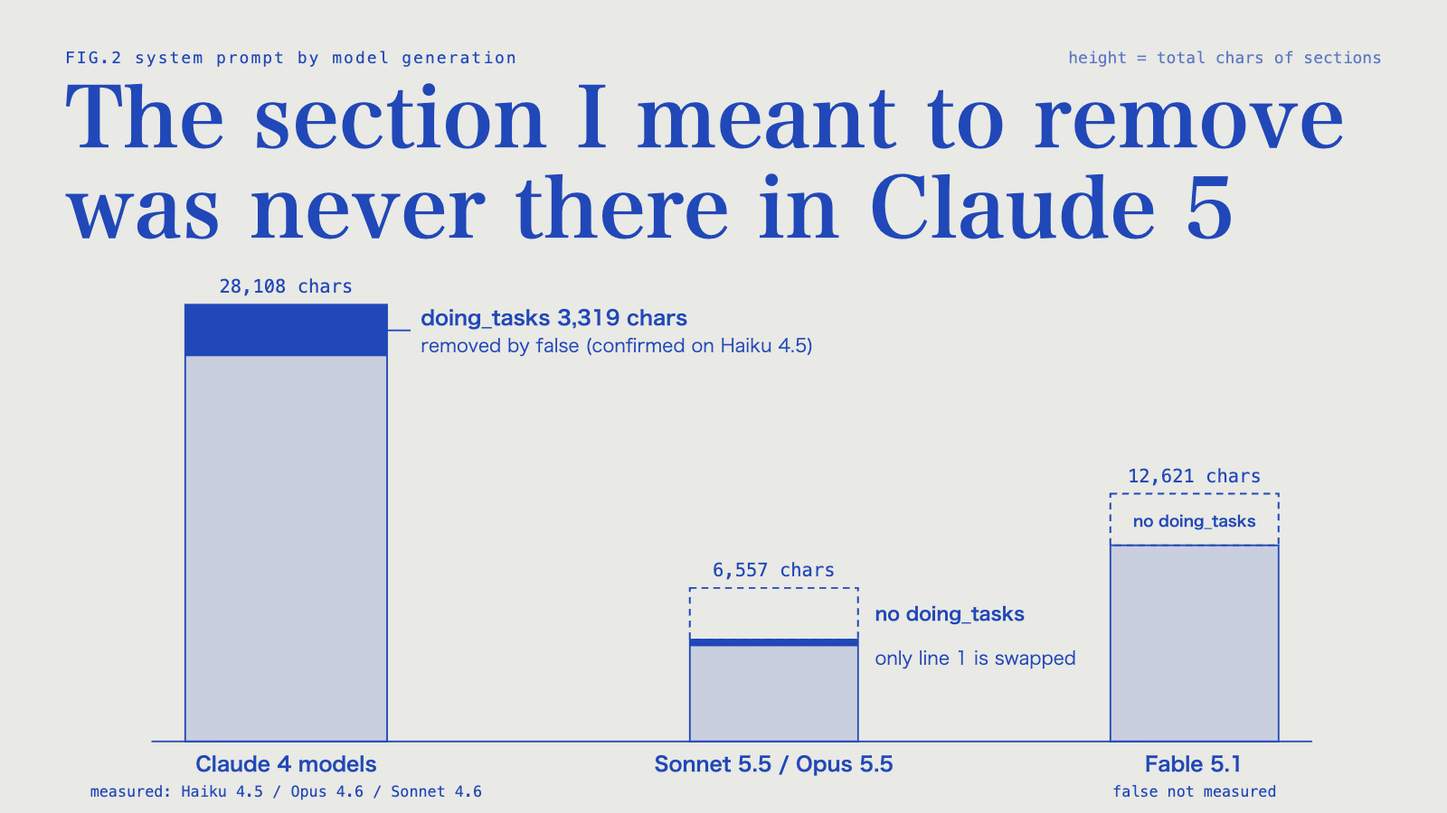
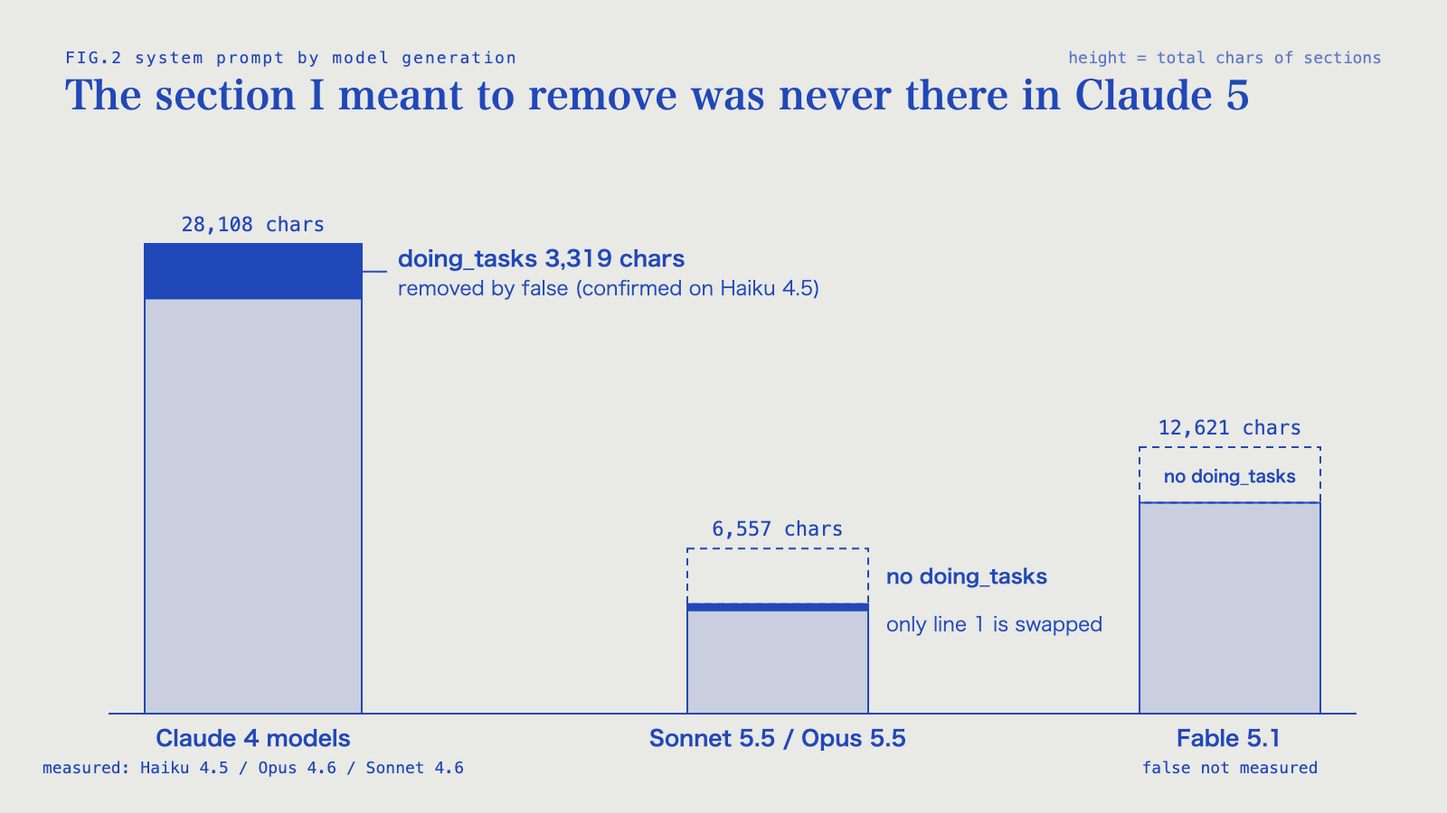
fix(images): harness-scope 記事の図の見出しを 1 行の大きさに戻す（JP / EN）
Context: 著者が公開後に見直し、図では mono-color の 5〜12 倍の規則を使わないと決めた（zenn-format の文字の大きさの規約 ee42589）。
Decision: JP は 0be7292 の 48px・1 行の版に戻す。EN は 44px・1 行に作り直す。図の文字と数字は変えない。

指摘: 「やっぱ改めて見直したけど、字の大きさは図は適用しない方がいいな。図用に大きさの規約足しといて」
Trigger: 公開後に記事を見直した
Expect: 次の図で、見出しが小さく mono-color らしさが弱いと感じる

diff --git a/figures/harness-scope-writing-harness-generations-en.html b/figures/harness-scope-writing-harness-generations-en.html
@@ -1,4 +1,4 @@
 <!doctype html>
 <html lang="en"><head><meta charset="utf-8"><title>fig2</title>
 <style>html,body{margin:0;width:1600px;height:900px;background:#E9E9E5;overflow:hidden}svg{display:block;font-family:"Hiragino Sans","Hiragino Kaku Gothic ProN",system-ui,sans-serif}</style></head><body>
-<svg viewBox="0 0 1600 900" width="1600" height="900" role="img" aria-label="Total characters of the system prompt sections: 28,108 on Claude 4 models (Haiku 4.5 / Opus 4.6 / Sonnet 4.6), 6,557 on Sonnet 5.5 / Opus 5.5, and 12,621 on Fable 5.1. doing_tasks (3,319 characters) exists in the Claude 4 models (removal by false confirmed on Haiku 4.5) and was never in Claude 5. On Sonnet 5.5 / Opus 5.5, selecting an output style changes only the first line of the main prompt. false was not measured on Fable 5.1."><text x="72" y="70" font-size="18" fill="#2148B8" font-family="Menlo, monospace" letter-spacing="2">FIG.2  system prompt by model generation</text><text x="72" y="165" font-size="92" font-weight="600" fill="#2148B8" font-family="Hiragino Mincho ProN, serif">The section I meant to remove</text><text x="72" y="265" font-size="92" font-weight="600" fill="#2148B8" font-family="Hiragino Mincho ProN, serif">was never there in Claude 5</text><text x="1528" y="70" font-size="18" fill="#2148B8" font-family="Menlo, monospace" text-anchor="end" opacity=".7">height = total chars of sections</text><g transform="translate(56.0,86.1) scale(0.93)"><line x1="120" y1="790" x2="1500" y2="790" stroke="#2148B8" stroke-width="2"/><rect x="160" y="270.0" width="240" height="520.0" fill="#2148B8" fill-opacity=".16" stroke="#2148B8" stroke-width="2"/><rect x="160" y="270.0" width="240" height="61.4" fill="#2148B8"/><text x="280.0" y="256.0" font-size="22" fill="#2148B8" text-anchor="middle" font-family="Menlo, monospace">28,108 chars</text><line x1="400" y1="300.7" x2="428" y2="300.7" stroke="#2148B8" stroke-width="2"/><text x="440" y="294.7" font-size="24" font-weight="700" fill="#2148B8">doing_tasks 3,319 chars</text><text x="440" y="326.7" font-size="22" fill="#2148B8">removed by false (confirmed on Haiku 4.5)</text><text x="280.0" y="826" font-size="24" font-weight="700" fill="#2148B8" text-anchor="middle">Claude 4 models</text><text x="280.0" y="856" font-size="18" fill="#2148B8" text-anchor="middle" font-family="Menlo, monospace">measured: Haiku 4.5 / Opus 4.6 / Sonnet 4.6</text><rect x="760" y="607.3000000000001" width="200" height="61.4" fill="none" stroke="#2148B8" stroke-width="2" stroke-dasharray="8 6"/><rect x="760" y="668.7" width="200" height="121.3" fill="#2148B8" fill-opacity=".16" stroke="#2148B8" stroke-width="2"/><rect x="760" y="668.7" width="200" height="8" fill="#2148B8"/><text x="860.0" y="593.3000000000001" font-size="22" fill="#2148B8" text-anchor="middle" font-family="Menlo, monospace">6,557 chars</text><text x="980" y="646.0" font-size="22" font-weight="700" fill="#2148B8">no doing_tasks</text><text x="980" y="698.7" font-size="22" fill="#2148B8">only line 1 is swapped</text><text x="860.0" y="826" font-size="24" font-weight="700" fill="#2148B8" text-anchor="middle">Sonnet 5.5 / Opus 5.5</text><rect x="1260" y="495.1" width="200" height="61.4" fill="none" stroke="#2148B8" stroke-width="2" stroke-dasharray="8 6"/><text x="1360.0" y="533.8" font-size="18" font-weight="700" fill="#2148B8" text-anchor="middle">no doing_tasks</text><rect x="1260" y="556.5" width="200" height="233.5" fill="#2148B8" fill-opacity=".16" stroke="#2148B8" stroke-width="2"/><text x="1360.0" y="481.1" font-size="22" fill="#2148B8" text-anchor="middle" font-family="Menlo, monospace">12,621 chars</text><text x="1360.0" y="826" font-size="24" font-weight="700" fill="#2148B8" text-anchor="middle">Fable 5.1</text><text x="1360" y="856" font-size="18" fill="#2148B8" text-anchor="middle" font-family="Menlo, monospace">false not measured</text></g></svg></body></html>
+<svg viewBox="0 0 1600 900" width="1600" height="900" role="img" aria-label="Total characters of the system prompt sections: 28,108 on Claude 4 models (Haiku 4.5 / Opus 4.6 / Sonnet 4.6), 6,557 on Sonnet 5.5 / Opus 5.5, and 12,621 on Fable 5.1. doing_tasks (3,319 characters) exists in the Claude 4 models (removal by false confirmed on Haiku 4.5) and was never in Claude 5. On Sonnet 5.5 / Opus 5.5, selecting an output style changes only the first line of the main prompt. false was not measured on Fable 5.1."><text x="72" y="70" font-size="18" fill="#2148B8" font-family="Menlo, monospace" letter-spacing="2">FIG.2  system prompt by model generation</text><text x="72" y="122" font-size="44" font-weight="600" fill="#2148B8" font-family="Hiragino Mincho ProN, serif">The section I meant to remove was never there in Claude 5</text><text x="1528" y="70" font-size="18" fill="#2148B8" font-family="Menlo, monospace" text-anchor="end" opacity=".7">height = total chars of sections</text><line x1="120" y1="790" x2="1500" y2="790" stroke="#2148B8" stroke-width="2"/><rect x="160" y="270.0" width="240" height="520.0" fill="#2148B8" fill-opacity=".16" stroke="#2148B8" stroke-width="2"/><rect x="160" y="270.0" width="240" height="61.4" fill="#2148B8"/><text x="280.0" y="256.0" font-size="22" fill="#2148B8" text-anchor="middle" font-family="Menlo, monospace">28,108 chars</text><line x1="400" y1="300.7" x2="428" y2="300.7" stroke="#2148B8" stroke-width="2"/><text x="440" y="294.7" font-size="24" font-weight="700" fill="#2148B8">doing_tasks 3,319 chars</text><text x="440" y="326.7" font-size="22" fill="#2148B8">removed by false (confirmed on Haiku 4.5)</text><text x="280.0" y="826" font-size="24" font-weight="700" fill="#2148B8" text-anchor="middle">Claude 4 models</text><text x="280.0" y="856" font-size="18" fill="#2148B8" text-anchor="middle" font-family="Menlo, monospace">measured: Haiku 4.5 / Opus 4.6 / Sonnet 4.6</text><rect x="760" y="607.3000000000001" width="200" height="61.4" fill="none" stroke="#2148B8" stroke-width="2" stroke-dasharray="8 6"/><rect x="760" y="668.7" width="200" height="121.3" fill="#2148B8" fill-opacity=".16" stroke="#2148B8" stroke-width="2"/><rect x="760" y="668.7" width="200" height="8" fill="#2148B8"/><text x="860.0" y="593.3000000000001" font-size="22" fill="#2148B8" text-anchor="middle" font-family="Menlo, monospace">6,557 chars</text><text x="980" y="646.0" font-size="22" font-weight="700" fill="#2148B8">no doing_tasks</text><text x="980" y="698.7" font-size="22" fill="#2148B8">only line 1 is swapped</text><text x="860.0" y="826" font-size="24" font-weight="700" fill="#2148B8" text-anchor="middle">Sonnet 5.5 / Opus 5.5</text><rect x="1260" y="495.1" width="200" height="61.4" fill="none" stroke="#2148B8" stroke-width="2" stroke-dasharray="8 6"/><text x="1360.0" y="533.8" font-size="18" font-weight="700" fill="#2148B8" text-anchor="middle">no doing_tasks</text><rect x="1260" y="556.5" width="200" height="233.5" fill="#2148B8" fill-opacity=".16" stroke="#2148B8" stroke-width="2"/><text x="1360.0" y="481.1" font-size="22" fill="#2148B8" text-anchor="middle" font-family="Menlo, monospace">12,621 chars</text><text x="1360.0" y="826" font-size="24" font-weight="700" fill="#2148B8" text-anchor="middle">Fable 5.1</text><text x="1360" y="856" font-size="18" fill="#2148B8" text-anchor="middle" font-family="Menlo, monospace">false not measured</text></svg></body></html>

diff --git a/figures/harness-scope-writing-harness-generations.html b/figures/harness-scope-writing-harness-generations.html
@@ -1,4 +1,4 @@
 <!doctype html>
 <html lang="ja"><head><meta charset="utf-8"><title>fig2</title>
 <style>html,body{margin:0;width:1600px;height:900px;background:#E9E9E5;overflow:hidden}svg{display:block;font-family:"Hiragino Sans","Hiragino Kaku Gothic ProN",system-ui,sans-serif}</style></head><body>
-<svg viewBox="0 0 1600 900" width="1600" height="900" role="img" aria-label="system prompt の節の合計は Claude 4 系（Haiku 4.5 / Opus 4.6 / Sonnet 4.6）で 28,108字、Sonnet 5.5 / Opus 5.5 は 6,557字、Fable 5.1 は 12,621字。doing_tasks 3,319字は 4 系にあり（false で外れることは Haiku 4.5 で確認）、5 系には最初から無い。Sonnet 5.5 / Opus 5.5 で出力スタイルを選んで変わるのは本体の1行目だけ。Fable 5.1 の false は未計測。"><text x="72" y="70" font-size="18" fill="#2148B8" font-family="Menlo, monospace" letter-spacing="2">FIG.2  system prompt by model generation</text><text x="72" y="165" font-size="92" font-weight="600" fill="#2148B8" font-family="Hiragino Mincho ProN, serif">外すつもりの節は、</text><text x="72" y="265" font-size="92" font-weight="600" fill="#2148B8" font-family="Hiragino Mincho ProN, serif">Claude 5 系には最初から無い</text><text x="1528" y="70" font-size="18" fill="#2148B8" font-family="Menlo, monospace" text-anchor="end" opacity=".7">高さ = 節の合計字数</text><g transform="translate(56.0,86.1) scale(0.93)"><line x1="120" y1="790" x2="1500" y2="790" stroke="#2148B8" stroke-width="2"/><rect x="160" y="270.0" width="240" height="520.0" fill="#2148B8" fill-opacity=".16" stroke="#2148B8" stroke-width="2"/><rect x="160" y="270.0" width="240" height="61.4" fill="#2148B8"/><text x="280.0" y="256.0" font-size="22" fill="#2148B8" text-anchor="middle" font-family="Menlo, monospace">28,108字</text><line x1="400" y1="300.7" x2="428" y2="300.7" stroke="#2148B8" stroke-width="2"/><text x="440" y="294.7" font-size="24" font-weight="700" fill="#2148B8">doing_tasks 3,319字</text><text x="440" y="326.7" font-size="22" fill="#2148B8">false で外れる（Haiku 4.5 で確認）</text><text x="280.0" y="826" font-size="24" font-weight="700" fill="#2148B8" text-anchor="middle">Claude 4 系</text><text x="280.0" y="856" font-size="18" fill="#2148B8" text-anchor="middle" font-family="Menlo, monospace">Haiku 4.5 / Opus 4.6 / Sonnet 4.6 で計測</text><rect x="760" y="607.3000000000001" width="200" height="61.4" fill="none" stroke="#2148B8" stroke-width="2" stroke-dasharray="8 6"/><rect x="760" y="668.7" width="200" height="121.3" fill="#2148B8" fill-opacity=".16" stroke="#2148B8" stroke-width="2"/><rect x="760" y="668.7" width="200" height="8" fill="#2148B8"/><text x="860.0" y="593.3000000000001" font-size="22" fill="#2148B8" text-anchor="middle" font-family="Menlo, monospace">6,557字</text><text x="980" y="646.0" font-size="22" font-weight="700" fill="#2148B8">doing_tasks なし</text><text x="980" y="698.7" font-size="22" fill="#2148B8">1行目だけ差し替わる</text><text x="860.0" y="826" font-size="24" font-weight="700" fill="#2148B8" text-anchor="middle">Sonnet 5.5 / Opus 5.5</text><rect x="1260" y="495.1" width="200" height="61.4" fill="none" stroke="#2148B8" stroke-width="2" stroke-dasharray="8 6"/><text x="1360.0" y="533.8" font-size="18" font-weight="700" fill="#2148B8" text-anchor="middle">doing_tasks なし</text><rect x="1260" y="556.5" width="200" height="233.5" fill="#2148B8" fill-opacity=".16" stroke="#2148B8" stroke-width="2"/><text x="1360.0" y="481.1" font-size="22" fill="#2148B8" text-anchor="middle" font-family="Menlo, monospace">12,621字</text><text x="1360.0" y="826" font-size="24" font-weight="700" fill="#2148B8" text-anchor="middle">Fable 5.1</text><text x="1360" y="856" font-size="18" fill="#2148B8" text-anchor="middle" font-family="Menlo, monospace">false は未計測</text></g></svg></body></html>
+<svg viewBox="0 0 1600 900" width="1600" height="900" role="img" aria-label="system prompt の節の合計は Claude 4 系（Haiku 4.5 / Opus 4.6 / Sonnet 4.6）で 28,108字、Sonnet 5.5 / Opus 5.5 は 6,557字、Fable 5.1 は 12,621字。doing_tasks 3,319字は 4 系にあり（false で外れることは Haiku 4.5 で確認）、5 系には最初から無い。Sonnet 5.5 / Opus 5.5 で出力スタイルを選んで変わるのは本体の1行目だけ。Fable 5.1 の false は未計測。"><text x="72" y="70" font-size="18" fill="#2148B8" font-family="Menlo, monospace" letter-spacing="2">FIG.2  system prompt by model generation</text><text x="72" y="122" font-size="48" font-weight="600" fill="#2148B8" font-family="Hiragino Mincho ProN, serif">外すつもりの節は、Claude 5 系には最初から無い</text><text x="1528" y="70" font-size="18" fill="#2148B8" font-family="Menlo, monospace" text-anchor="end" opacity=".7">高さ = 節の合計字数</text><line x1="120" y1="790" x2="1500" y2="790" stroke="#2148B8" stroke-width="2"/><rect x="160" y="270.0" width="240" height="520.0" fill="#2148B8" fill-opacity=".16" stroke="#2148B8" stroke-width="2"/><rect x="160" y="270.0" width="240" height="61.4" fill="#2148B8"/><text x="280.0" y="256.0" font-size="22" fill="#2148B8" text-anchor="middle" font-family="Menlo, monospace">28,108字</text><line x1="400" y1="300.7" x2="428" y2="300.7" stroke="#2148B8" stroke-width="2"/><text x="440" y="294.7" font-size="24" font-weight="700" fill="#2148B8">doing_tasks 3,319字</text><text x="440" y="326.7" font-size="22" fill="#2148B8">false で外れる（Haiku 4.5 で確認）</text><text x="280.0" y="826" font-size="24" font-weight="700" fill="#2148B8" text-anchor="middle">Claude 4 系</text><text x="280.0" y="856" font-size="18" fill="#2148B8" text-anchor="middle" font-family="Menlo, monospace">Haiku 4.5 / Opus 4.6 / Sonnet 4.6 で計測</text><rect x="760" y="607.3000000000001" width="200" height="61.4" fill="none" stroke="#2148B8" stroke-width="2" stroke-dasharray="8 6"/><rect x="760" y="668.7" width="200" height="121.3" fill="#2148B8" fill-opacity=".16" stroke="#2148B8" stroke-width="2"/><rect x="760" y="668.7" width="200" height="8" fill="#2148B8"/><text x="860.0" y="593.3000000000001" font-size="22" fill="#2148B8" text-anchor="middle" font-family="Menlo, monospace">6,557字</text><text x="980" y="646.0" font-size="22" font-weight="700" fill="#2148B8">doing_tasks なし</text><text x="980" y="698.7" font-size="22" fill="#2148B8">1行目だけ差し替わる</text><text x="860.0" y="826" font-size="24" font-weight="700" fill="#2148B8" text-anchor="middle">Sonnet 5.5 / Opus 5.5</text><rect x="1260" y="495.1" width="200" height="61.4" fill="none" stroke="#2148B8" stroke-width="2" stroke-dasharray="8 6"/><text x="1360.0" y="533.8" font-size="18" font-weight="700" fill="#2148B8" text-anchor="middle">doing_tasks なし</text><rect x="1260" y="556.5" width="200" height="233.5" fill="#2148B8" fill-opacity=".16" stroke="#2148B8" stroke-width="2"/><text x="1360.0" y="481.1" font-size="22" fill="#2148B8" text-anchor="middle" font-family="Menlo, monospace">12,621字</text><text x="1360.0" y="826" font-size="24" font-weight="700" fill="#2148B8" text-anchor="middle">Fable 5.1</text><text x="1360" y="856" font-size="18" fill="#2148B8" text-anchor="middle" font-family="Menlo, monospace">false は未計測</text></svg></body></html>

diff --git a/figures/harness-scope-writing-harness-turns.html b/figures/harness-scope-writing-harness-turns.html
@@ -1,4 +1,4 @@
 <!doctype html>
 <html lang="ja"><head><meta charset="utf-8"><title>fig3</title>
 <style>html,body{margin:0;width:1600px;height:900px;background:#E9E9E5;overflow:hidden}svg{display:block;font-family:"Hiragino Sans","Hiragino Kaku Gothic ProN",system-ui,sans-serif}</style></head><body>
-<svg viewBox="0 0 1600 900" width="1600" height="900" role="img" aria-label="出力スタイルの本文（会話の規約 7項目）が新しく差し込まれるのは1ターン目だけ。2ターン目に新しく差し込まれるのは名前の念押し95字だけ。"><text x="72" y="70" font-size="18" fill="#2148B8" font-family="Menlo, monospace" letter-spacing="2">FIG.3  reminders inserted per turn</text><text x="72" y="165" font-size="92" font-weight="600" fill="#2148B8" font-family="Hiragino Mincho ProN, serif">規約の本文が差し込まれるのは、</text><text x="72" y="265" font-size="92" font-weight="600" fill="#2148B8" font-family="Hiragino Mincho ProN, serif">最初のターンだけ</text><text x="1528" y="70" font-size="18" fill="#2148B8" font-family="Menlo, monospace" text-anchor="end" opacity=".7">高さ = 字数</text><g transform="translate(0.0,105.0) scale(1.0)"><line x1="160" y1="250" x2="1460" y2="250" stroke="#2148B8" stroke-width="3"/><path d="M1460,240 L1480,250 L1460,260 z" fill="#2148B8"/><circle cx="480" cy="250" r="14" fill="#2148B8"/><text x="480" y="220" font-size="28" font-weight="700" fill="#2148B8" text-anchor="middle">1ターン目</text><line x1="480" y1="264" x2="480" y2="296" stroke="#2148B8" stroke-width="2"/><circle cx="1120" cy="250" r="14" fill="#2148B8"/><text x="1120" y="220" font-size="28" font-weight="700" fill="#2148B8" text-anchor="middle">2ターン目</text><line x1="1120" y1="264" x2="1120" y2="296" stroke="#2148B8" stroke-width="2"/><rect x="300" y="300" width="360" height="333" fill="#ADB9D7"/><text x="328" y="348" font-size="28" font-weight="700" fill="#2148B8">出力スタイルの本文</text><text x="328" y="386" font-size="22" fill="#2148B8">会話の規約 7項目</text><rect x="300" y="645" width="360" height="57" fill="#2148B8"/><text x="328" y="681.5" font-size="22" font-weight="700" fill="#E9E9E5">名前の念押し 95字</text><rect x="940" y="300" width="360" height="333" fill="none" stroke="#2148B8" stroke-width="2" stroke-dasharray="8 6"/><text x="1120.0" y="474.5" font-size="24" font-weight="700" fill="#2148B8" text-anchor="middle">本文は差し込まれない</text><rect x="940" y="645" width="360" height="57" fill="#2148B8"/><text x="968" y="681.5" font-size="22" font-weight="700" fill="#E9E9E5">名前の念押し 95字</text><text x="72" y="772" font-size="18" fill="#2148B8" font-family="Menlo, monospace" opacity=".8">新しく差し込まれるリマインダー / probe, Claude Code 2.1.288</text></g></svg></body></html>
+<svg viewBox="0 0 1600 900" width="1600" height="900" role="img" aria-label="出力スタイルの本文（会話の規約 7項目）が新しく差し込まれるのは1ターン目だけ。2ターン目に新しく差し込まれるのは名前の念押し95字だけ。"><text x="72" y="70" font-size="18" fill="#2148B8" font-family="Menlo, monospace" letter-spacing="2">FIG.3  reminders inserted per turn</text><text x="72" y="122" font-size="48" font-weight="600" fill="#2148B8" font-family="Hiragino Mincho ProN, serif">規約の本文が差し込まれるのは、最初のターンだけ</text><text x="1528" y="70" font-size="18" fill="#2148B8" font-family="Menlo, monospace" text-anchor="end" opacity=".7">高さ = 字数</text><line x1="160" y1="250" x2="1460" y2="250" stroke="#2148B8" stroke-width="3"/><path d="M1460,240 L1480,250 L1460,260 z" fill="#2148B8"/><circle cx="480" cy="250" r="14" fill="#2148B8"/><text x="480" y="220" font-size="28" font-weight="700" fill="#2148B8" text-anchor="middle">1ターン目</text><line x1="480" y1="264" x2="480" y2="296" stroke="#2148B8" stroke-width="2"/><circle cx="1120" cy="250" r="14" fill="#2148B8"/><text x="1120" y="220" font-size="28" font-weight="700" fill="#2148B8" text-anchor="middle">2ターン目</text><line x1="1120" y1="264" x2="1120" y2="296" stroke="#2148B8" stroke-width="2"/><rect x="300" y="300" width="360" height="333" fill="#ADB9D7"/><text x="328" y="348" font-size="28" font-weight="700" fill="#2148B8">出力スタイルの本文</text><text x="328" y="386" font-size="22" fill="#2148B8">会話の規約 7項目</text><rect x="300" y="645" width="360" height="57" fill="#2148B8"/><text x="328" y="681.5" font-size="22" font-weight="700" fill="#E9E9E5">名前の念押し 95字</text><rect x="940" y="300" width="360" height="333" fill="none" stroke="#2148B8" stroke-width="2" stroke-dasharray="8 6"/><text x="1120.0" y="474.5" font-size="24" font-weight="700" fill="#2148B8" text-anchor="middle">本文は差し込まれない</text><rect x="940" y="645" width="360" height="57" fill="#2148B8"/><text x="968" y="681.5" font-size="22" font-weight="700" fill="#E9E9E5">名前の念押し 95字</text><text x="72" y="772" font-size="18" fill="#2148B8" font-family="Menlo, monospace" opacity=".8">新しく差し込まれるリマインダー / probe, Claude Code 2.1.288</text></svg></body></html>

diff --git a/figures/harness-scope-writing-harness-turns-en.html b/figures/harness-scope-writing-harness-turns-en.html
@@ -1,4 +1,4 @@
 <!doctype html>
 <html lang="en"><head><meta charset="utf-8"><title>fig3</title>
 <style>html,body{margin:0;width:1600px;height:900px;background:#E9E9E5;overflow:hidden}svg{display:block;font-family:"Hiragino Sans","Hiragino Kaku Gothic ProN",system-ui,sans-serif}</style></head><body>
-<svg viewBox="0 0 1600 900" width="1600" height="900" role="img" aria-label="The output style body (7 conversation rules) is newly inserted only on turn 1. On turn 2, the only new insertion is a 95-character reminder of the style name."><text x="72" y="70" font-size="18" fill="#2148B8" font-family="Menlo, monospace" letter-spacing="2">FIG.3  reminders inserted per turn</text><text x="72" y="165" font-size="92" font-weight="600" fill="#2148B8" font-family="Hiragino Mincho ProN, serif">The rules are inserted in full</text><text x="72" y="265" font-size="92" font-weight="600" fill="#2148B8" font-family="Hiragino Mincho ProN, serif">only on the first turn</text><text x="1528" y="70" font-size="18" fill="#2148B8" font-family="Menlo, monospace" text-anchor="end" opacity=".7">height = characters</text><g transform="translate(0.0,105.0) scale(1.0)"><line x1="160" y1="250" x2="1460" y2="250" stroke="#2148B8" stroke-width="3"/><path d="M1460,240 L1480,250 L1460,260 z" fill="#2148B8"/><circle cx="480" cy="250" r="14" fill="#2148B8"/><text x="480" y="220" font-size="28" font-weight="700" fill="#2148B8" text-anchor="middle">Turn 1</text><line x1="480" y1="264" x2="480" y2="296" stroke="#2148B8" stroke-width="2"/><circle cx="1120" cy="250" r="14" fill="#2148B8"/><text x="1120" y="220" font-size="28" font-weight="700" fill="#2148B8" text-anchor="middle">Turn 2</text><line x1="1120" y1="264" x2="1120" y2="296" stroke="#2148B8" stroke-width="2"/><rect x="300" y="300" width="360" height="333" fill="#ADB9D7"/><text x="328" y="348" font-size="28" font-weight="700" fill="#2148B8">Output style body</text><text x="328" y="386" font-size="22" fill="#2148B8">7 conversation rules</text><rect x="300" y="645" width="360" height="57" fill="#2148B8"/><text x="328" y="681.5" font-size="22" font-weight="700" fill="#E9E9E5">Name reminder, 95 chars</text><rect x="940" y="300" width="360" height="333" fill="none" stroke="#2148B8" stroke-width="2" stroke-dasharray="8 6"/><text x="1120.0" y="474.5" font-size="24" font-weight="700" fill="#2148B8" text-anchor="middle">Body not inserted</text><rect x="940" y="645" width="360" height="57" fill="#2148B8"/><text x="968" y="681.5" font-size="22" font-weight="700" fill="#E9E9E5">Name reminder, 95 chars</text><text x="72" y="772" font-size="18" fill="#2148B8" font-family="Menlo, monospace" opacity=".8">Newly inserted reminders / probe, Claude Code 2.1.288</text></g></svg></body></html>
+<svg viewBox="0 0 1600 900" width="1600" height="900" role="img" aria-label="The output style body (7 conversation rules) is newly inserted only on turn 1. On turn 2, the only new insertion is a 95-character reminder of the style name."><text x="72" y="70" font-size="18" fill="#2148B8" font-family="Menlo, monospace" letter-spacing="2">FIG.3  reminders inserted per turn</text><text x="72" y="122" font-size="44" font-weight="600" fill="#2148B8" font-family="Hiragino Mincho ProN, serif">The rules are inserted in full only on the first turn</text><text x="1528" y="70" font-size="18" fill="#2148B8" font-family="Menlo, monospace" text-anchor="end" opacity=".7">height = characters</text><line x1="160" y1="250" x2="1460" y2="250" stroke="#2148B8" stroke-width="3"/><path d="M1460,240 L1480,250 L1460,260 z" fill="#2148B8"/><circle cx="480" cy="250" r="14" fill="#2148B8"/><text x="480" y="220" font-size="28" font-weight="700" fill="#2148B8" text-anchor="middle">Turn 1</text><line x1="480" y1="264" x2="480" y2="296" stroke="#2148B8" stroke-width="2"/><circle cx="1120" cy="250" r="14" fill="#2148B8"/><text x="1120" y="220" font-size="28" font-weight="700" fill="#2148B8" text-anchor="middle">Turn 2</text><line x1="1120" y1="264" x2="1120" y2="296" stroke="#2148B8" stroke-width="2"/><rect x="300" y="300" width="360" height="333" fill="#ADB9D7"/><text x="328" y="348" font-size="28" font-weight="700" fill="#2148B8">Output style body</text><text x="328" y="386" font-size="22" fill="#2148B8">7 conversation rules</text><rect x="300" y="645" width="360" height="57" fill="#2148B8"/><text x="328" y="681.5" font-size="22" font-weight="700" fill="#E9E9E5">Name reminder, 95 chars</text><rect x="940" y="300" width="360" height="333" fill="none" stroke="#2148B8" stroke-width="2" stroke-dasharray="8 6"/><text x="1120.0" y="474.5" font-size="24" font-weight="700" fill="#2148B8" text-anchor="middle">Body not inserted</text><rect x="940" y="645" width="360" height="57" fill="#2148B8"/><text x="968" y="681.5" font-size="22" font-weight="700" fill="#E9E9E5">Name reminder, 95 chars</text><text x="72" y="772" font-size="18" fill="#2148B8" font-family="Menlo, monospace" opacity=".8">Newly inserted reminders / probe, Claude Code 2.1.288</text></svg></body></html>

diff --git a/figures/harness-scope-writing-harness-hero.html b/figures/harness-scope-writing-harness-hero.html
@@ -12,7 +12,7 @@ svg{display:block;font-family:"Hiragino Sans","Hiragino Kaku Gothic ProN",system
   </defs>
 
   <!-- title -->
-  <text x="72" y="70" font-size="18" fill="#2148B8" font-family="Menlo, monospace" letter-spacing="2">FIG.1  harness-scope × output style</text><text x="72" y="165" font-size="92" font-weight="600" fill="#2148B8" font-family="Hiragino Mincho ProN, serif">見せるものと話し方を、</text><text x="72" y="265" font-size="92" font-weight="600" fill="#2148B8" font-family="Hiragino Mincho ProN, serif">別の場所で決める</text><g transform="translate(112.0,153.8) scale(0.86)">
+  <text x="72" y="70" font-size="18" fill="#2148B8" font-family="Menlo, monospace" letter-spacing="2">FIG.1  harness-scope × output style</text><text x="72" y="122" font-size="48" font-weight="600" fill="#2148B8" font-family="Hiragino Mincho ProN, serif">見せるものと話し方を、別の場所で決める</text>
 
   <!-- global harness -->
   <rect x="72" y="170" width="420" height="370" rx="4" fill="none" stroke="#2148B8" stroke-width="3"/>
@@ -91,5 +91,5 @@ svg{display:block;font-family:"Hiragino Sans","Hiragino Kaku Gothic ProN",system
   <rect x="1206" y="740" width="302" height="92" rx="2" fill="#E9E9E5"/>
   <text x="1226" y="770" font-size="20" font-weight="700" fill="#2148B8" letter-spacing="1">話し方</text>
   <text x="1226" y="804" font-size="24" fill="#2148B8">会話の規約</text>
-<path d="M1186,291 L1200,300 L1186,309 z" fill="#E9E9E5"/><path d="M1186,361 L1200,370 L1186,379 z" fill="#E9E9E5"/><path d="M1186,431 L1200,440 L1186,449 z" fill="#E9E9E5"/><path d="M1186,623 L1200,632 L1186,641 z" fill="#E9E9E5"/><path d="M1186,779 L1200,788 L1186,797 z" fill="#E9E9E5"/><text x="1226" y="524" font-size="22" fill="#E9E9E5" opacity=".62">外したものは届かない</text><text x="611" y="486" font-size="18" fill="#2148B8" text-anchor="middle" font-family="Menlo, monospace" opacity=".75">数はリポジトリ分を含む</text></g></svg>
+<path d="M1186,291 L1200,300 L1186,309 z" fill="#E9E9E5"/><path d="M1186,361 L1200,370 L1186,379 z" fill="#E9E9E5"/><path d="M1186,431 L1200,440 L1186,449 z" fill="#E9E9E5"/><path d="M1186,623 L1200,632 L1186,641 z" fill="#E9E9E5"/><path d="M1186,779 L1200,788 L1186,797 z" fill="#E9E9E5"/><text x="1226" y="524" font-size="22" fill="#E9E9E5" opacity=".62">外したものは届かない</text><text x="611" y="486" font-size="18" fill="#2148B8" text-anchor="middle" font-family="Menlo, monospace" opacity=".75">数はリポジトリ分を含む</text></svg>
 </body></html>

diff --git a/figures/harness-scope-writing-harness-hero-en.html b/figures/harness-scope-writing-harness-hero-en.html
@@ -12,7 +12,7 @@ svg{display:block;font-family:"Hiragino Sans","Hiragino Kaku Gothic ProN",system
   </defs>
 
   <!-- title -->
-  <text x="72" y="70" font-size="18" fill="#2148B8" font-family="Menlo, monospace" letter-spacing="2">FIG.1  harness-scope × output style</text><text x="72" y="165" font-size="92" font-weight="600" fill="#2148B8" font-family="Hiragino Mincho ProN, serif">What Claude sees, how it talks,</text><text x="72" y="265" font-size="92" font-weight="600" fill="#2148B8" font-family="Hiragino Mincho ProN, serif">decided in separate places</text><g transform="translate(112.0,153.8) scale(0.86)">
+  <text x="72" y="70" font-size="18" fill="#2148B8" font-family="Menlo, monospace" letter-spacing="2">FIG.1  harness-scope × output style</text><text x="72" y="122" font-size="44" font-weight="600" fill="#2148B8" font-family="Hiragino Mincho ProN, serif">What Claude sees, how it talks, decided in separate places</text>
 
   <!-- global harness -->
   <rect x="72" y="170" width="420" height="370" rx="4" fill="none" stroke="#2148B8" stroke-width="3"/>
@@ -91,5 +91,5 @@ svg{display:block;font-family:"Hiragino Sans","Hiragino Kaku Gothic ProN",system
   <rect x="1206" y="740" width="302" height="92" rx="2" fill="#E9E9E5"/>
   <text x="1226" y="770" font-size="20" font-weight="700" fill="#2148B8" letter-spacing="1">How it talks</text>
   <text x="1226" y="804" font-size="24" fill="#2148B8">Conversation rules</text>
-<path d="M1186,291 L1200,300 L1186,309 z" fill="#E9E9E5"/><path d="M1186,361 L1200,370 L1186,379 z" fill="#E9E9E5"/><path d="M1186,431 L1200,440 L1186,449 z" fill="#E9E9E5"/><path d="M1186,623 L1200,632 L1186,641 z" fill="#E9E9E5"/><path d="M1186,779 L1200,788 L1186,797 z" fill="#E9E9E5"/><text x="1226" y="524" font-size="22" fill="#E9E9E5" opacity=".62">Removed: never sent</text><text x="611" y="486" font-size="18" fill="#2148B8" text-anchor="middle" font-family="Menlo, monospace" opacity=".75">incl. repo's own</text></g></svg>
+<path d="M1186,291 L1200,300 L1186,309 z" fill="#E9E9E5"/><path d="M1186,361 L1200,370 L1186,379 z" fill="#E9E9E5"/><path d="M1186,431 L1200,440 L1186,449 z" fill="#E9E9E5"/><path d="M1186,623 L1200,632 L1186,641 z" fill="#E9E9E5"/><path d="M1186,779 L1200,788 L1186,797 z" fill="#E9E9E5"/><text x="1226" y="524" font-size="22" fill="#E9E9E5" opacity=".62">Removed: never sent</text><text x="611" y="486" font-size="18" fill="#2148B8" text-anchor="middle" font-family="Menlo, monospace" opacity=".75">incl. repo's own</text></svg>
 </body></html>
